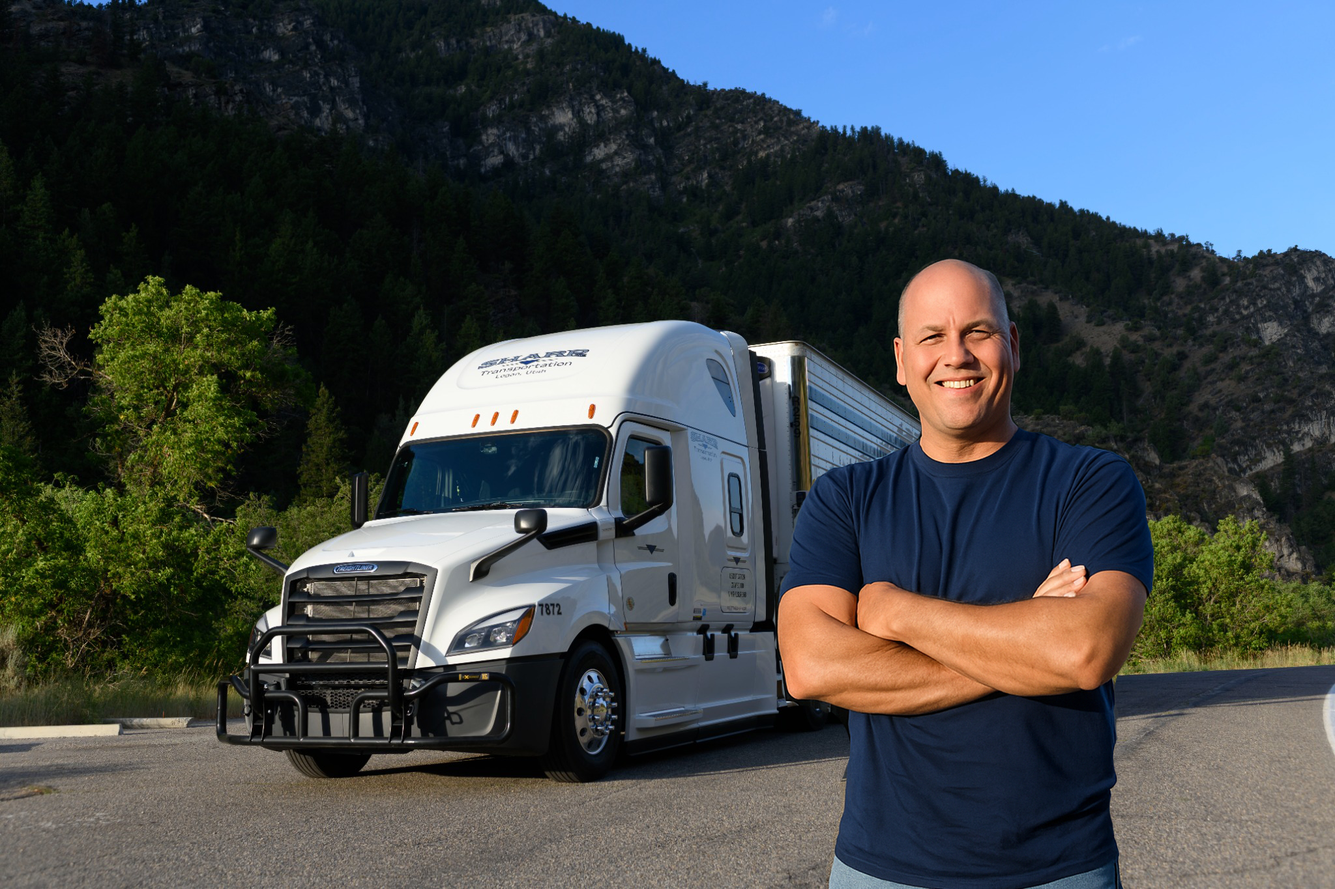
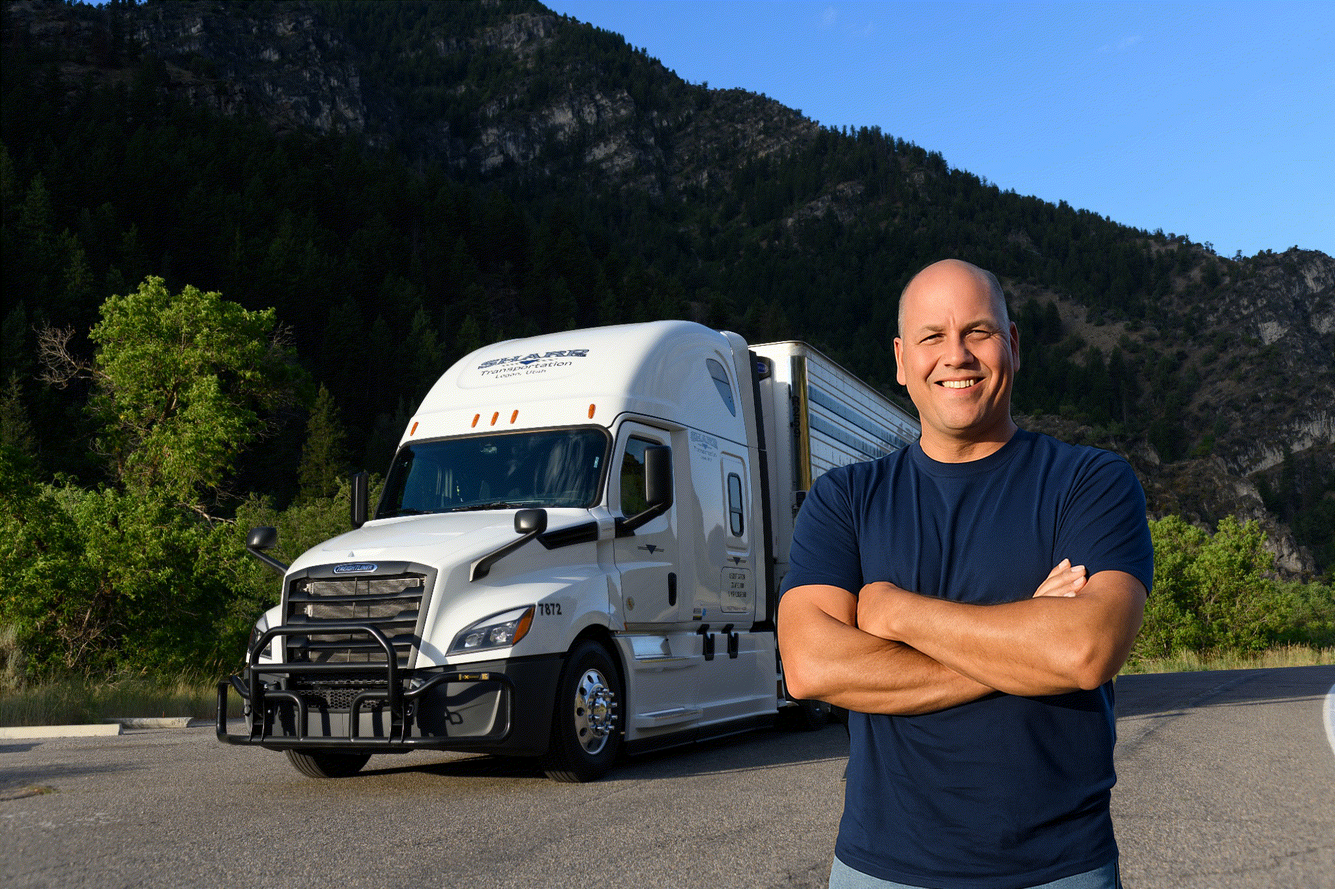
Adding analitics and optimizing photos

diff --git a/components/MyHeader.tsx b/components/MyHeader.tsx
@@ -49,7 +49,7 @@ export const MyHeader = () => (
               Track Shipment
             </Link>
           </Button>
-          <Button asChild><Link href="comm">Contact Us</Link></Button>
+          <Button asChild><Link href="/contact">Contact Us</Link></Button>
         </div>
         <div className="md:hidden">
           <Sheet>
